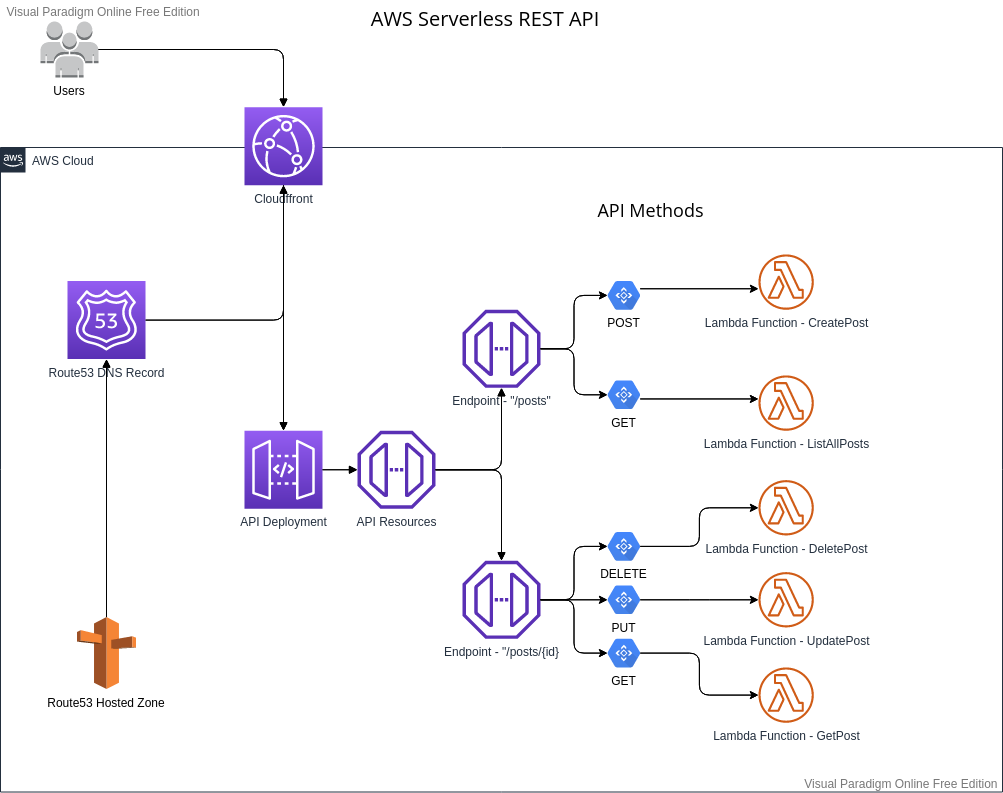
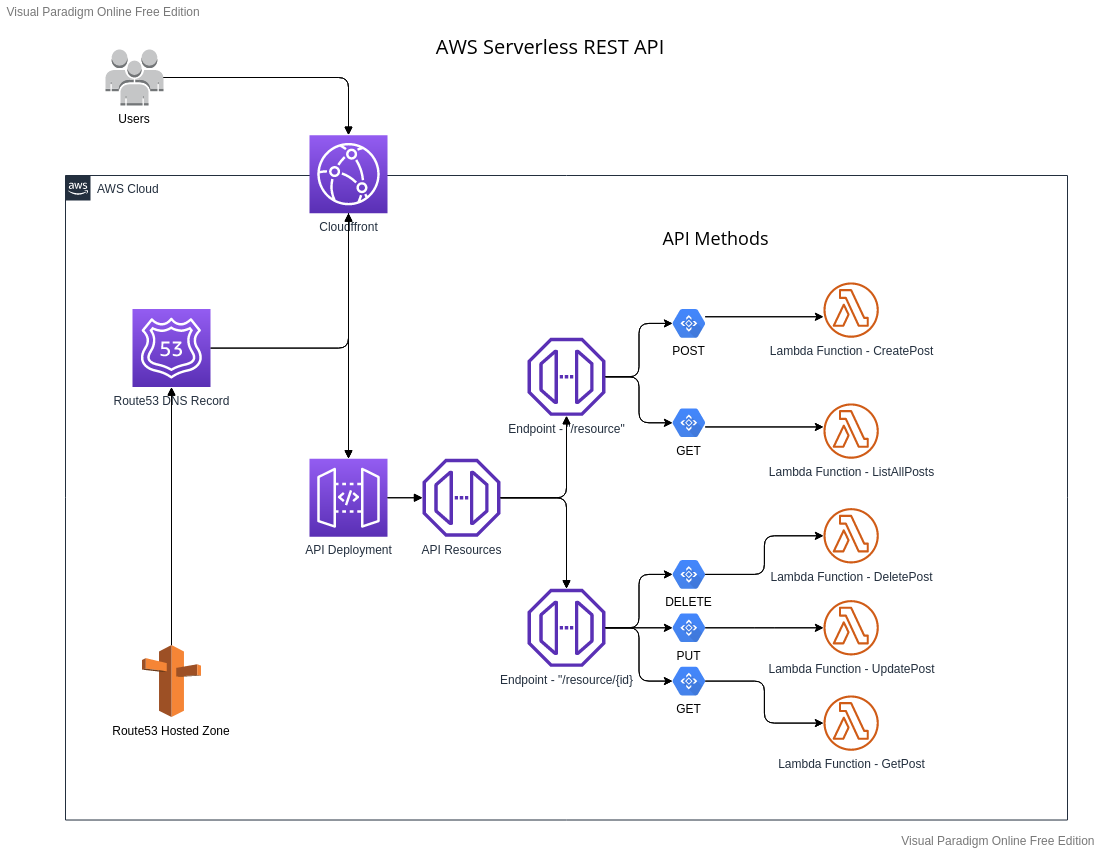
Update diagram

diff --git a/README.md b/README.md
@@ -6,13 +6,13 @@ The lambda handlers are defined in `lambda/handlers/http_methods.py`, these meth
 
 The response from the lambda method should use the format provided by `Response.format` class method.
 
-| ROUTE                    | METHOD | HANDLER             |
-| ------------------------ | ------ | ------------------- |
-| `/post`                  | GET    | http_methods.list   |
-| `/post`                  | POST   | http_methods.post   |
-| `/post/<string:post_id>` | GET    | http_methods.get    |
-| `/post/<string:post_id>` | PUT    | http_methods.put    |
-| `/post/<string:post_id>` | DELETE | http_methods.delete |
+| ROUTE                        | METHOD | HANDLER             |
+| ---------------------------- | ------ | ------------------- |
+| `/resource`                  | GET    | http_methods.list   |
+| `/resource`                  | POST   | http_methods.post   |
+| `/resource/<string:post_id>` | GET    | http_methods.get    |
+| `/resource/<string:post_id>` | PUT    | http_methods.put    |
+| `/resource/<string:post_id>` | DELETE | http_methods.delete |
 
 ## Cloud Diagram
 
@@ -33,3 +33,8 @@ The response from the lambda method should use the format provided by `Response.
   `terraform plan -out plan`
 - Run
   `terraform apply`
+
+## Notes
+
+- If terraform fails on first attempt try again, it may be terraform error in resource creation order
+- Wait a couple hours before trying to access the API, it may take time for DNS settings to propagate
